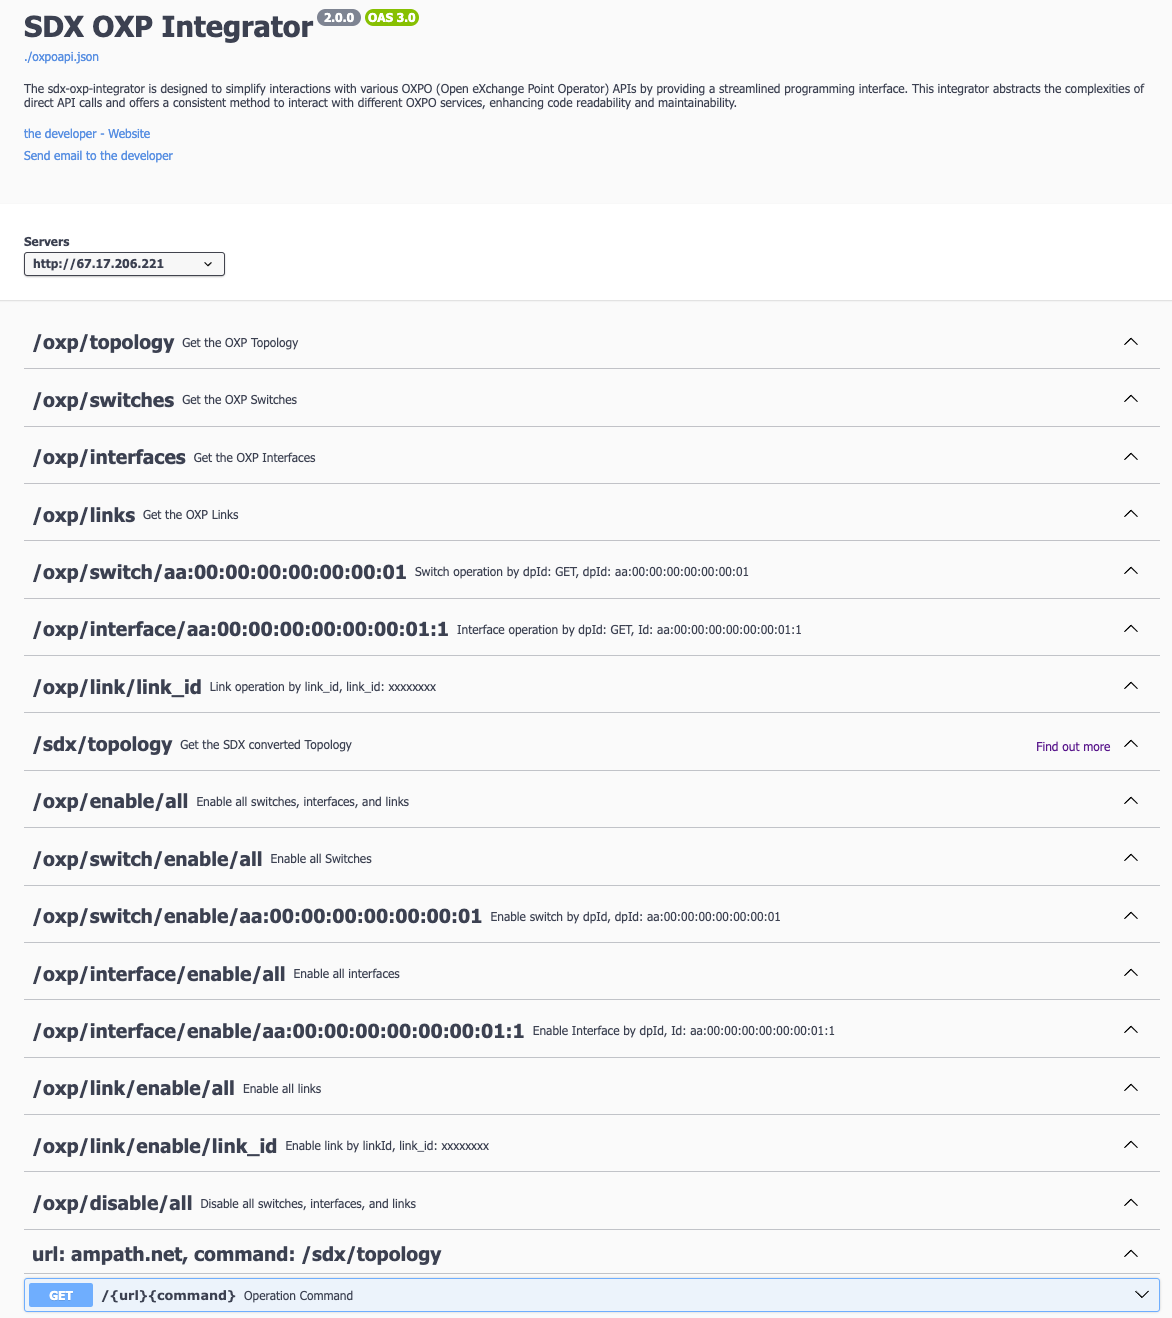
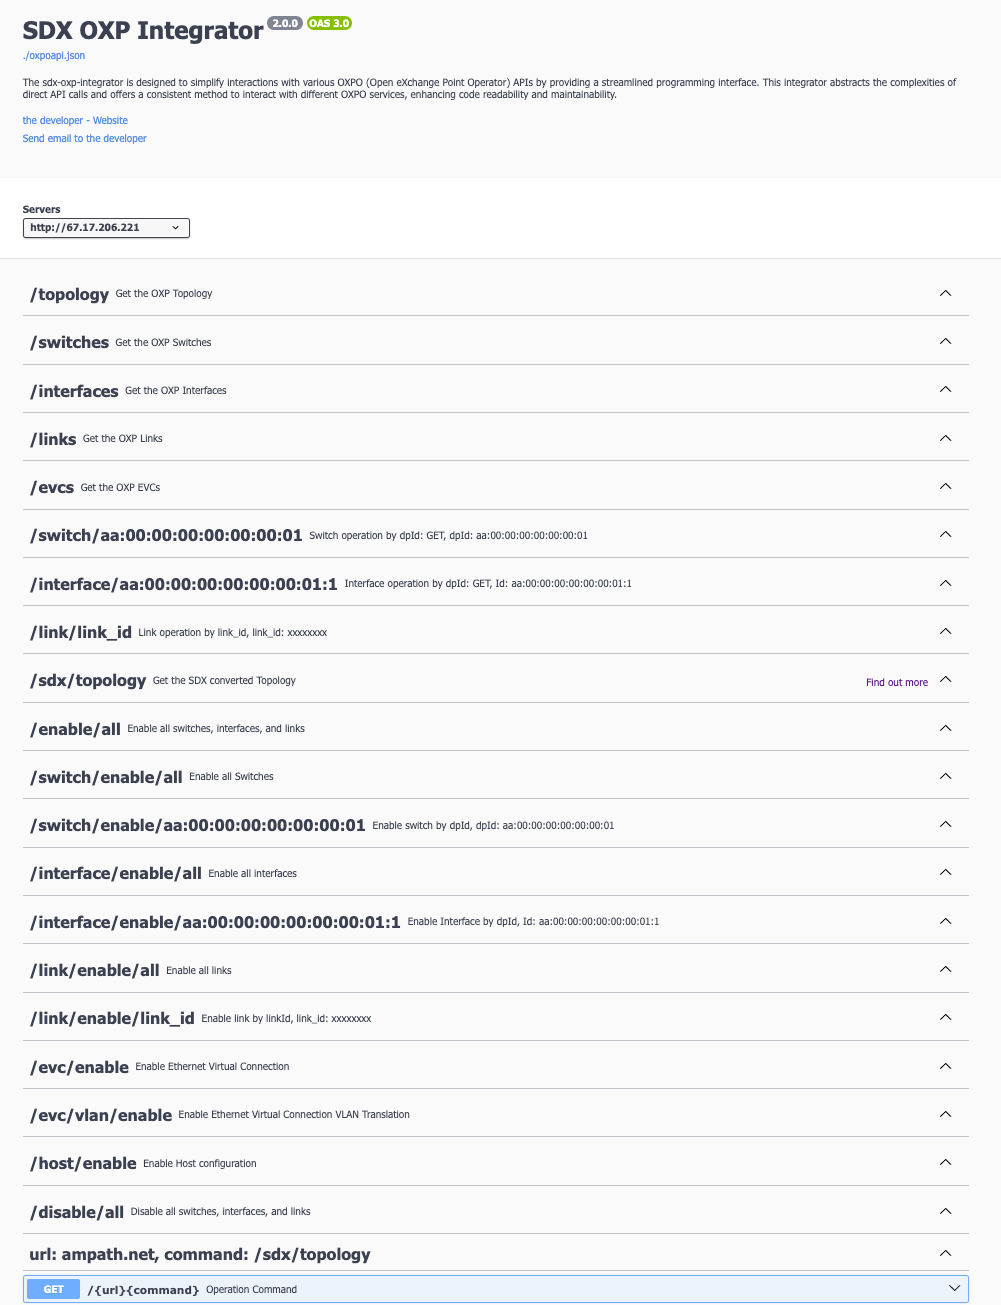
adding connection object and url #45

Changed region(s): [[0.0, 0.1533, 0.991, 1.0], [0.0, 0.0, 0.96, 0.1226], [0.8671, 0.5211, 0.96, 0.5824]]

diff --git a/topology-conversion/controllers/operational_controller.py b/topology-conversion/controllers/operational_controller.py
@@ -5,6 +5,7 @@ import requests
 
 OXP_META_DATA = os.environ.get("OXPO_METADATA")
 OXP_TOPOLOGY_URL = os.environ.get("OXP_TOPOLOGY_URL")
+OXP_CONNECTION_URL = os.environ.get("OXP_CONNECTION_URL")
 
 
 def get_operational_event():
@@ -30,6 +31,20 @@ def post_topology_object(url, topology_object):
     """Post topology object to OXP"""
     oxp_url = f"{OXP_TOPOLOGY_URL}{url}"
     response = requests.post(oxp_url, json=topology_object, timeout=10)
+    return response.json()
+
+
+def get_connection_object(connection_object):
+    """Get specific connection object from OXP"""
+    url = OXP_CONNECTION_URL + connection_object
+    response = requests.get(url, timeout=10)
+    return response.json()
+
+
+def post_connection_object(url, connection_object):
+    """Post connection object to OXP"""
+    oxp_url = f"{OXP_CONNECTION_URL}{url}"
+    response = requests.post(oxp_url, json=connection_object, timeout=10)
     return response.json()
 
 
@@ -176,24 +191,24 @@ def post_oxp_link_enable(dp_id):
 
 def get_oxp_evcs():
     """Get all EVCs"""
-    return get_topology_object("evc")
+    return get_connection_object("evc")
 
 
 def post_oxp_evc_enable():
     """Enable Ethernet Network Connection"""
     metadata = json_reader(OXP_META_DATA)
-    for dpid, topology_object in metadata.get("evcs",{}).items():
+    for dpid, connection_object in metadata.get("evcs",{}).items():
         url = f"mef_eline/v2/evc/"
-        post_topology_object(url, topology_object)
+        post_connection_object(url, connection_object)
     return f"evc/enable"
 
 
 def post_oxp_vlan_enable():
     """Enable Ethernet Network Connection VLAN translation"""
     metadata = json_reader(OXP_META_DATA)
-    for dpid, topology_object in metadata.get("vlans",{}).items():
+    for dpid, connection_object in metadata.get("vlans",{}).items():
         url = f"mef_eline/v2/evc/"
-        post_topology_object(url, topology_object)
+        post_connection_object(url, connection_object)
     return f"evc/vlan/enable"
 
 
